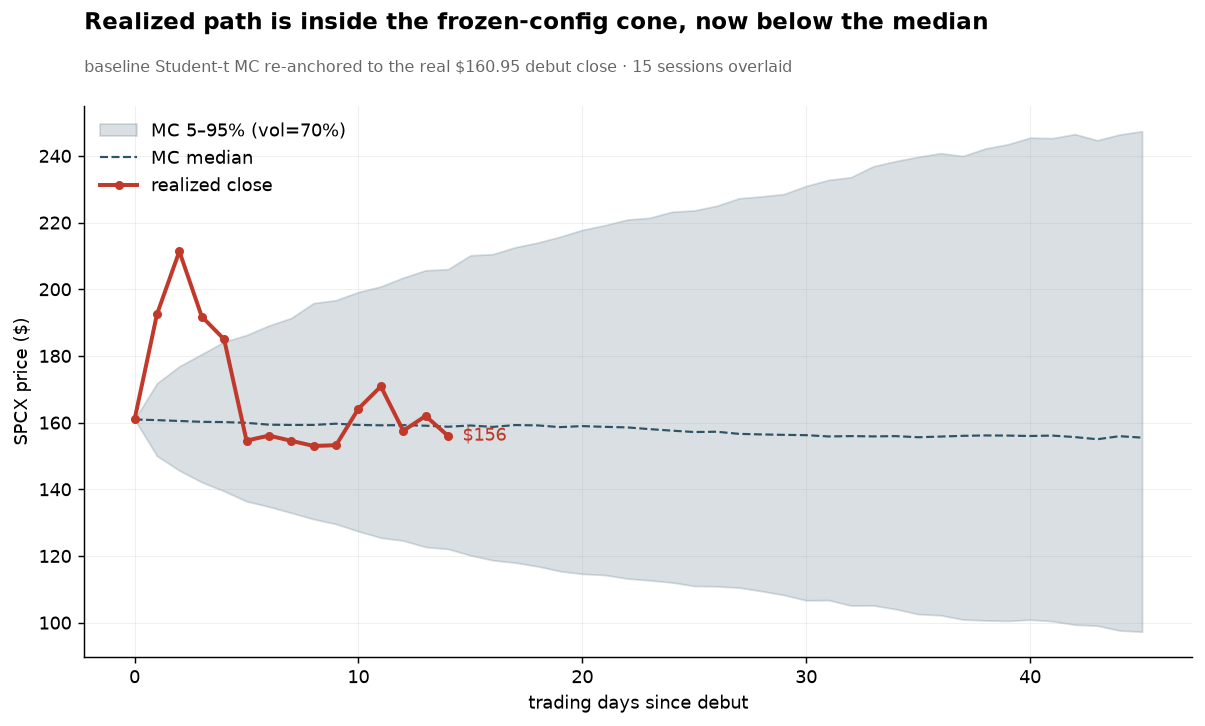
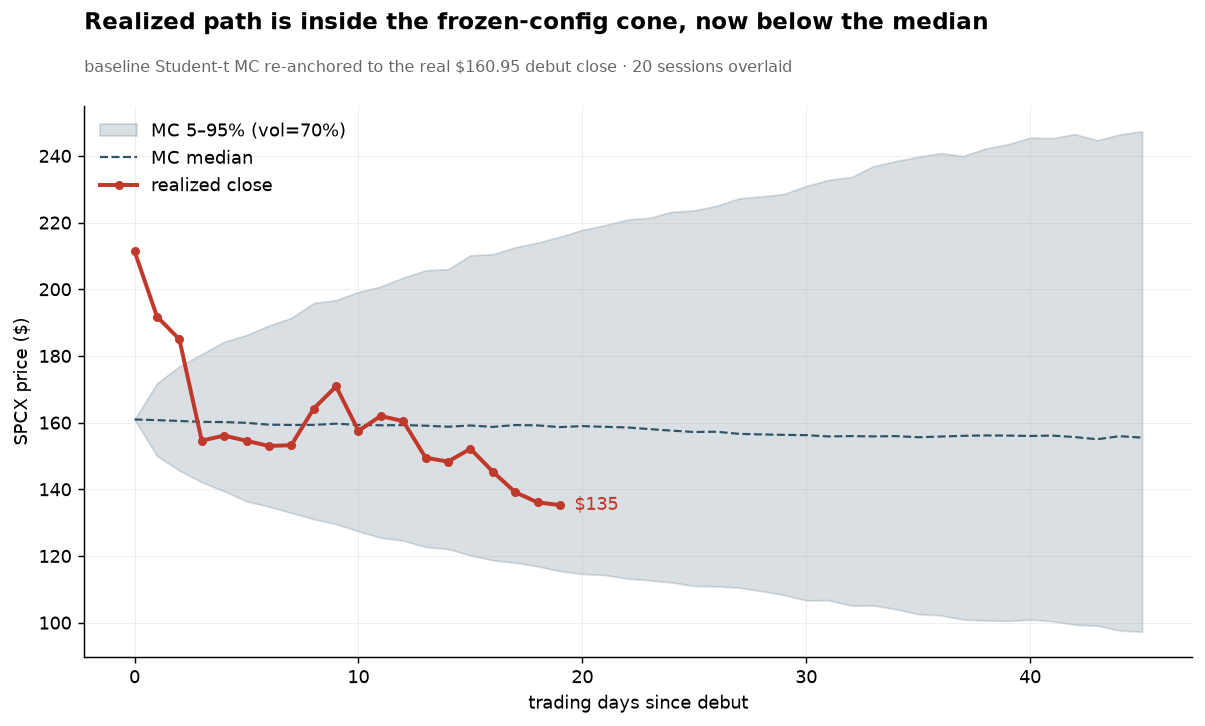
Entry-window close: all gates fail, no entry — journal, logbook, post-IPO refresh

diff --git a/LOGBOOK.md b/LOGBOOK.md
@@ -159,4 +159,33 @@ checkpoint when SpaceX announces the first earnings date (drives the whole Phase
 
 ---
 
+## 2026-07-16 (entry-window close, T+34) — window closes with no entry, front-run confirmed
+
+**Built**: window-close re-check (issue #18). No new model layer — notebook 07 stays frozen
+as the record of the Jul 6 decision; this entry only measures the window's final state.
+- `checkpoints/2026-07-16-entry-window-close`: frozen via workflow_dispatch (label
+  deliberately *not* `entry-window` — that name belongs to the pre-registered Jul 6 snapshot).
+  `identity_suspect` false; close $135.27; derived Aug ATM IV ~86%, Sep ~80%.
+- MC re-run with realized params (s0=135.27, vol=0.858 Aug ATM IV mean, debit=2.89, notebook 07
+  derivation, McConfig untouched): hard cap held on all 10k paths (worst spread -€249.1 = cap).
+  p_loss 0.38 / VaR95 €332 / ES95 €404 / mean €55 vs baseline 0.38 / €306 / €378 / €69.
+- `docs/06-trade-journal.md`: §2 window-close table, §3 weekly row, §5 event, §6 reminders (additive).
+- Notebook 06 realized overlay + post-IPO gif refreshed through Jul 15 close (baseline cells frozen).
+
+**Key decisions**:
+- **Window closes with NO ENTRY — all three gates fail.** IV ~80-86% (gate <55%), spot $135.27
+  (gate >$140), debit $2.89 (cap $2.30). The anticipated drop happened *without* a position:
+  spot $162 → $135.27 in seven sessions, a hair above the $135 front-run invalidation. The
+  thesis was directionally right and the entry gates still said no — buying the spread now
+  would pay $2.89 for a $5 width with the move already spent. Process held in both directions.
+- Jul 24 Fallback-1 retry is effectively moot (IV still fails 60%, spot gate dead); expected
+  outcome is formal cancellation of Strategy B unless spot > $140 with IV < 60% by then.
+
+**Frozen**: `checkpoints/2026-07-16-entry-window-close` (0 errors).
+
+**Open items**: Jul 24 formal Fallback-1 decision (likely cancel B); `earnings-T` checkpoint
+when SpaceX announces the first earnings date.
+
+---
+
 *Template for future entries: date (T±n) — built / key decisions / bugs caught / frozen / open items.*

diff --git a/docs/06-trade-journal.md b/docs/06-trade-journal.md
@@ -52,11 +52,22 @@ Emotional state:  calm
 
 The IV crush the plan waited for has not happened — SPCX still trades at post-IPO frenzy vol (~83-87% vs the ≤55% gate). Per Phase 2 **Fallback 1**: do not buy inflated IV (that is "a gift to the market maker"); retry Jul 24 at the relaxed 60% threshold — which ~83% still fails — else cancel Strategy B and cash stays cash. No order placed. Data caveat: yfinance free feed had zero option bid/ask; IV back-solved from ATM `lastPrice` via Black-Scholes, cross-checked against ~120% realized vol (ex-day1).
 
+**Window-close check (2026-07-16, close Jul 15).** Re-checked at the end of the Jul 6-17 window:
+
+| Condition (Phase 2) | Threshold | Realized | Met |
+|---|---|---|---|
+| September ATM IV | < 55% | ~80% (Aug ~86%) | ❌ |
+| SPCX spot | > $140 | $135.27 (close Jul 15) | ❌ |
+| 140/135 Sep debit | ≤ $2.30 | ~$2.89 BS ($2.87 last-last) | ❌ |
+
+All three gates now fail. The anticipated drop happened **without a position**: spot fell $162 → $135.27 (Jul 6 → Jul 15), a hair above the $135 invalidation level ("spot < 135 before entry = front-run"). The 140/135 spread is now near-ATM, so its price ($2.89) exceeds the $2.30 cap — the edge the entry was priced on is gone. The Jul 24 retry (relaxed 60% IV) is effectively moot: IV ~80% still fails it AND the spot gate is dead. Strategy B heads to formal cancellation unless spot recovers above $140 with IV < 60% by Jul 24. No order placed; process held under a front-run — the gates did their job in both directions.
+
 ## 3. Weekly checks (Friday, 15 min)
 
 | Date | SPCX spot | Sep ATM IV | Spread value | GOOGL | Account value | Action |
 |---|---|---|---|---|---|---|
 | 2026-07-06 | $162.00 | ~83% (Aug ~87%) | 140/135 debit ~$1.99 | n/a | baseline | Stand-down: IV > 55% gate, no entry (§2 #001) |
+| 2026-07-16 | $135.27 (close Jul 15) | ~80% (Aug ~86%) | 140/135 debit ~$2.89 | n/a | baseline | Window close: all 3 gates fail (IV, spot, debit) — front-run, no entry (§2 #001) |
 
 ## 4. Closed trades — retrospective
 
@@ -79,6 +90,7 @@ Lesson (1 line):
 | 2026-06-12 | Day-1: open/high/close/volume | open 150.00 / high 176.52 / close 160.95 / vol 519.2M | +19% day-1; observe only, no trade (Phase 1) |
 | ~2026-06-19 | SPCX options listed | ticker resolves to SpaceX (was colliding with defunct SPCX SPAC ETF) | IV tracking started |
 | 2026-07-06 | Entry-window check | spot $162.00, Aug ATM IV ~87% / Sep ~83%, 140/135 Sep debit ~$1.99 | IV > 55% gate → stand-down (§2 #001) |
+| 2026-07-16 | Entry-window close check | spot $135.27, Aug ATM IV ~86% / Sep ~80%, 140/135 Sep debit ~$2.89 | all 3 gates fail; drop front-ran entry → Strategy B toward cancel |
 | | Nasdaq-100 inclusion | | |
 | | Earnings date announced | | update timeline Phase 4 |
 | | Earnings: xAI burn / Starlink subs / guidance | | thesis confirmed or falsified |
@@ -87,7 +99,8 @@ Lesson (1 line):
 ## 6. Deadline reminders
 
 - [ ] ~Jun 19-24: check SPCX options listing
-- [x] Jul 6-17: strategy B entry window — checked 2026-07-06: IV ~83-87% > 55% gate → stand-down, no entry (§2 #001). Retry Jul 24 @ 60%.
+- [x] Jul 6-17: strategy B entry window — checked 2026-07-06: IV ~83-87% > 55% gate → stand-down, no entry (§2 #001). Retry Jul 24 @ 60%. Window-close check 2026-07-16: spot $135.27 < $140, IV ~80-86%, debit $2.89 > $2.30 — all gates fail, front-run. Jul 24 retry moot unless spot > $140 AND IV < 60%.
+- [ ] Jul 24: Fallback-1 retry decision — expected outcome: formal cancel of Strategy B (spot gate dead)
 - [ ] Sep 16: final spread decision (NEVER into expiry between the strikes)
 - [ ] ~Oct 25: day 135, full review
 - [ ] Dec: year-end tax optimization ([05-tax-italy.md](05-tax-italy.md))